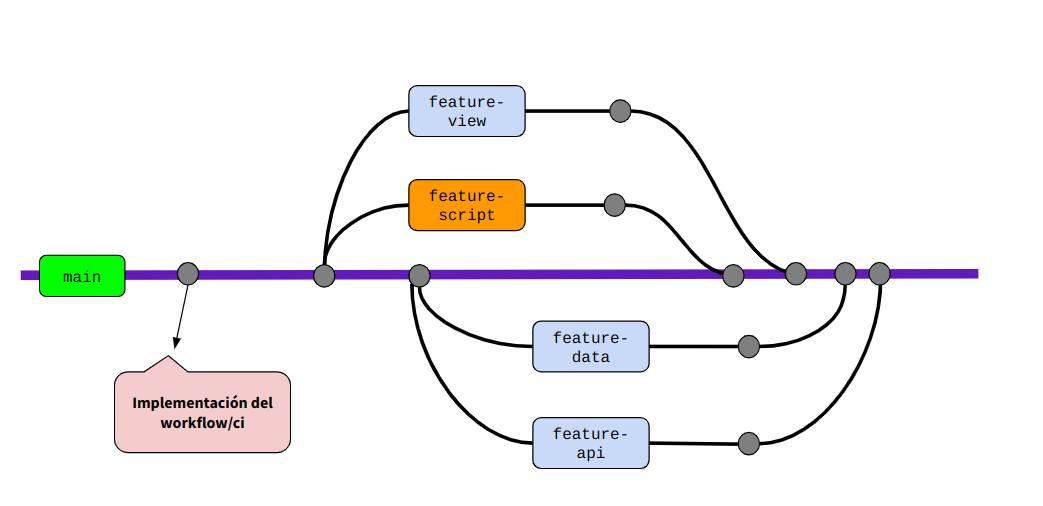
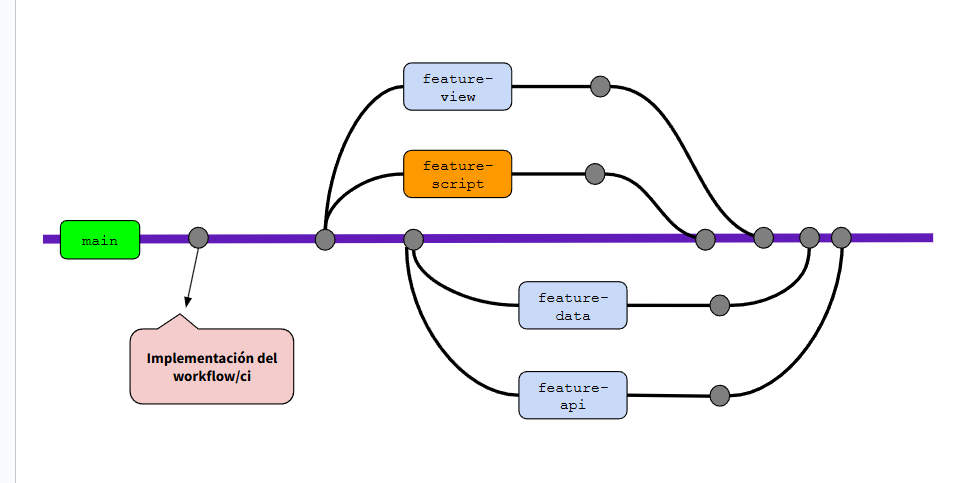
documentacion-parte-2-avance

Changed region(s): [[0.0, 0.1242, 0.9519, 0.9317], [0.0921, 0.6522, 0.3071, 0.9006], [0.1842, 0.5901, 0.2149, 0.6211]]

diff --git a/README.md b/README.md
@@ -27,6 +27,7 @@ Ramas usadas
     
 # Flujo de trabajo  
 Se hizo el desarrollo basado en troncales:   
+![](img/flujo.png)
   
 # Cómo iniciar la app:
 Para poder iniciar la aplicación debemos clonar el repositorio de nuestra aplicación para esto haremos el siguiente paso
@@ -40,6 +41,50 @@ Luego en la carpeta del proyecto vamos abrir la terminal y lanzamos todos los co
 Finalmente vamos a dirigirnos a nuestro navegador para poder correr nuestra aplicacion
 
 `http://localhost:3000`
+  
+      
+## Parte 2:  
+## 1. Resolución de acertijos mediante la API REST 
+El archivo app configuramos los middleware, y lo lanzamos en el puerto 3000, además montamos un conjunto de rutas bajo el prefijo api (ver linea 11 de la imágen):  
+![](img/src-1.png)  
+  
+Aquí está la api, tiene dos endpoints:  
+1. endpoint: `/habitacion`: Sirve para obtener la habitación en que se encuentra el jugador y el acertijo respectivo, y lo mandamos como JSON para que le frontend lo consuma, es decir lo muestre en el DOM (en el navegador)  
+  
+2. endpoint: `/habitacion/comando`:  este enpoint procesa el comando que el usuario digita, y dependiendo de eso responderá con un mensaje.
+![](img/src-2.png)  
+  
+Hemos visto que se uso ciertas funciones como `getHabitacionActual()`  
+En data.js tenemos un objeto donde almacena cada habitación y su respectivo acertijo, entonces esta función retorna un objeto con la habitación y acertijo
+![](img/data_func-1.png)    
+  
+El 2do endpoint usa la función `procesarComando()` lo que hace es tomar el comando como parametro y enviar un mensaje respectivo para que en el frontend lo muestere como alert  
+
+![](img/src-2.png)  
+  
+  
+## 3. Dockerización del juego de escape room  
+Para la parte de docker, creamos un dockerfile de tal forma que se pueda construir la imagen
+![](img/docker-file.png)  
+  
+Además se creo un docker-compose para la creacion de 3 contenedores de manera automática, una para la app, prometheus y para grafana
+![](img/docker-compose.png)  
+  
+Nosotros no usamos una base de datos en si, en un modulo data creamos un `data.js` donde está cada habitación con sus respectivos acertijos y respuestas y pistas  
+
+![](img/data.png)  
+  
+
+  
+## 4. Pistas dinámicas en el juego  
+Para el manejo de las pistas creamos una funcion de `procesarcomando()`, esta funcion tiene acceso a el archivo data.js para devolver las pistas
+
+
+`procesarComando()` el comando que digite el usuario sera pasado como parámetro y se le dará una respuesta respectiva, los comandos válidos son `ver pista` , entonces devuelve un objeto con la pista para que el frontend lo muestre en un alert, la misma lógica aplica para otros comandos ya sea para la respuesta correcta u otro comando   
+
+![](img/data_func-2.png)  
+  
+    
 
 # Infraestructura
 
